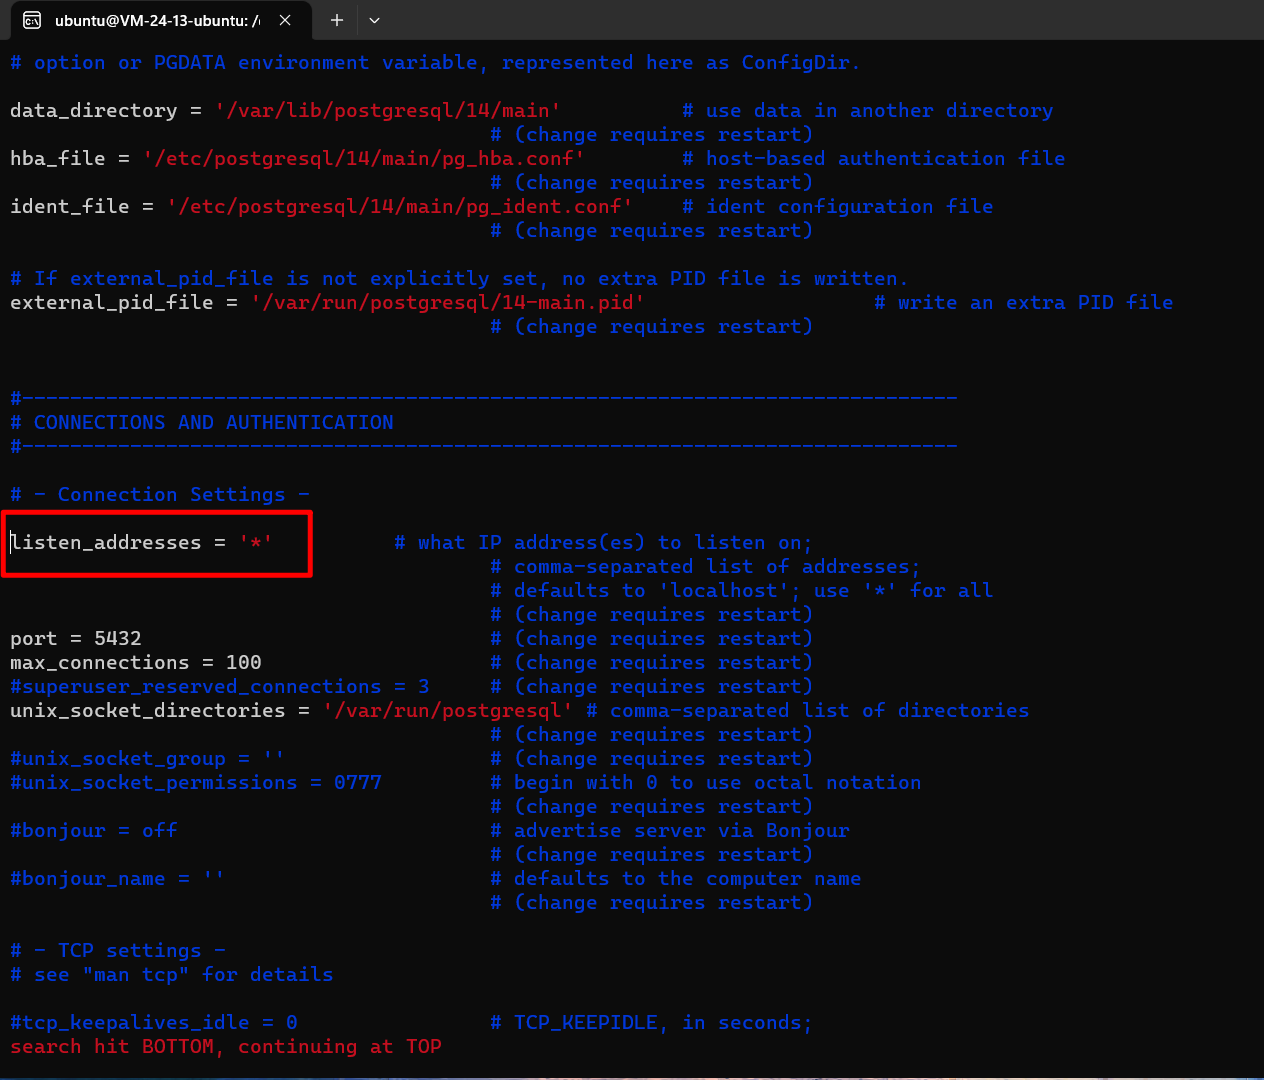
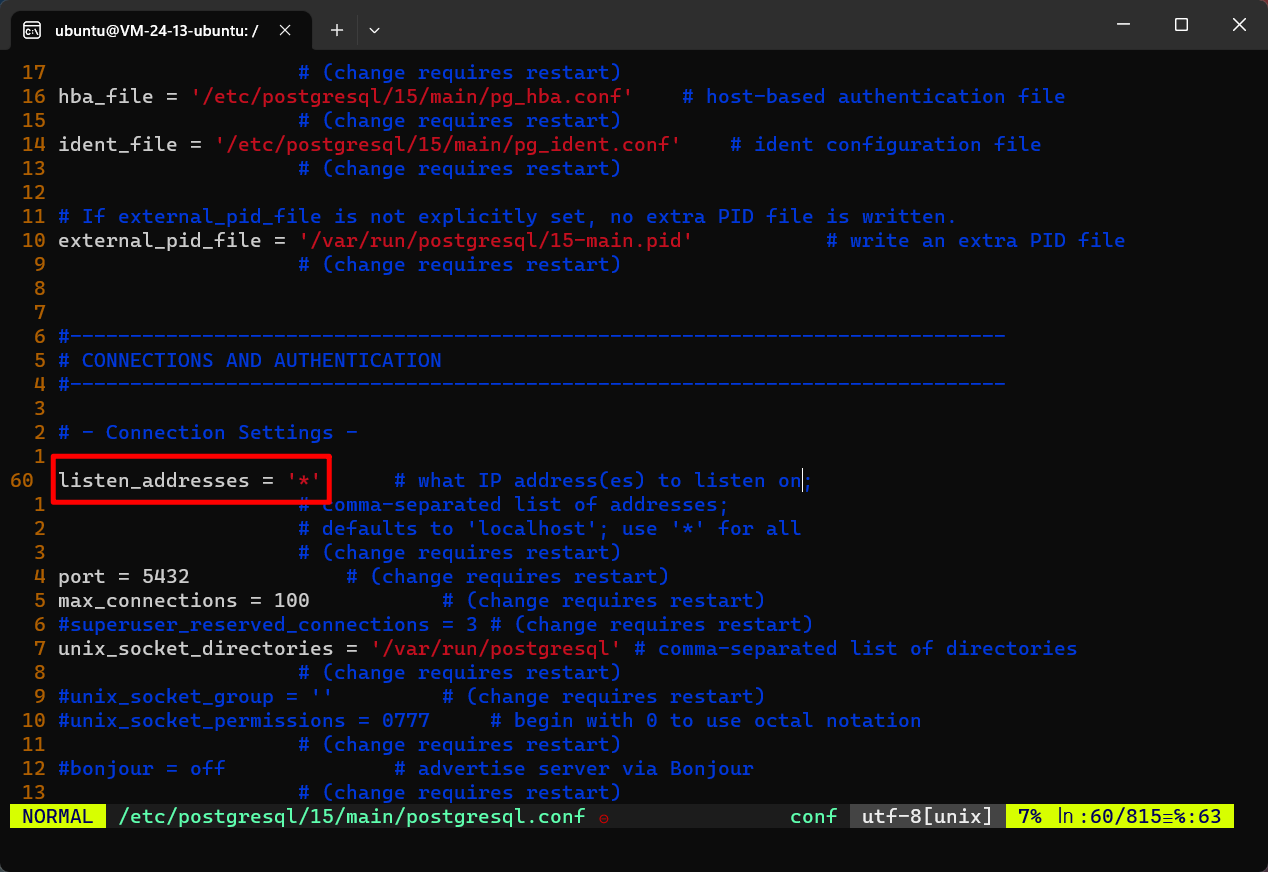
Site updated: 2023-06-19 14:01:45

diff --git a/2023/06/18/2023-数据库课设-环境搭建-pg数据库/index.html b/2023/06/18/2023-数据库课设-环境搭建-pg数据库/index.html
@@ -16,24 +16,25 @@
   <meta name="author" content="Yuan">
   <meta name="keywords" content="">
   
-    <meta name="description" content="这里用 postgresql ubuntu 默认版本安装在 Ubuntu22.04 这时版本 14 前置要求会 vim 的基本操作 vim教程 安装登录到服务器后在 shell 里操作  更新软件包版本的目录 1sudo apt update   更新软件包 1sudo apt upgrade    安装 postgresql  1sudo apt install postgresql-clien">
+    <meta name="description" content="这里用 postgresql ubuntu 默认版本安装在 Ubuntu22.04 这时版本 14 前置要求会 vim 的基本操作 vim教程 安装登录到服务器后在 shell 里操作 更新软件包版本的目录 1sudo apt update   更新软件包 1sudo apt upgrade    安装 postgresql  1sudo apt install postgresql-client">
 <meta property="og:type" content="article">
 <meta property="og:title" content="2023 数据库课设 环境搭建-pg数据库">
 <meta property="og:url" content="http://example.com/2023/06/18/2023-%E6%95%B0%E6%8D%AE%E5%BA%93%E8%AF%BE%E8%AE%BE-%E7%8E%AF%E5%A2%83%E6%90%AD%E5%BB%BA-pg%E6%95%B0%E6%8D%AE%E5%BA%93/index.html">
 <meta property="og:site_name" content="我的博客">
-<meta property="og:description" content="这里用 postgresql ubuntu 默认版本安装在 Ubuntu22.04 这时版本 14 前置要求会 vim 的基本操作 vim教程 安装登录到服务器后在 shell 里操作  更新软件包版本的目录 1sudo apt update   更新软件包 1sudo apt upgrade    安装 postgresql  1sudo apt install postgresql-clien">
+<meta property="og:description" content="这里用 postgresql ubuntu 默认版本安装在 Ubuntu22.04 这时版本 14 前置要求会 vim 的基本操作 vim教程 安装登录到服务器后在 shell 里操作 更新软件包版本的目录 1sudo apt update   更新软件包 1sudo apt upgrade    安装 postgresql  1sudo apt install postgresql-client">
 <meta property="og:locale" content="zh_CN">
 <meta property="og:image" content="http://example.com/2023/06/18/2023-%E6%95%B0%E6%8D%AE%E5%BA%93%E8%AF%BE%E8%AE%BE-%E7%8E%AF%E5%A2%83%E6%90%AD%E5%BB%BA-pg%E6%95%B0%E6%8D%AE%E5%BA%93/lianjie.png">
 <meta property="og:image" content="http://example.com/2023/06/18/2023-%E6%95%B0%E6%8D%AE%E5%BA%93%E8%AF%BE%E8%AE%BE-%E7%8E%AF%E5%A2%83%E6%90%AD%E5%BB%BA-pg%E6%95%B0%E6%8D%AE%E5%BA%93/update.png">
+<meta property="og:image" content="http://example.com/2023/06/18/2023-%E6%95%B0%E6%8D%AE%E5%BA%93%E8%AF%BE%E8%AE%BE-%E7%8E%AF%E5%A2%83%E6%90%AD%E5%BB%BA-pg%E6%95%B0%E6%8D%AE%E5%BA%93/fen.png">
 <meta property="og:image" content="http://example.com/2023/06/18/2023-%E6%95%B0%E6%8D%AE%E5%BA%93%E8%AF%BE%E8%AE%BE-%E7%8E%AF%E5%A2%83%E6%90%AD%E5%BB%BA-pg%E6%95%B0%E6%8D%AE%E5%BA%93/post.png">
 <meta property="og:image" content="http://example.com/2023/06/18/2023-%E6%95%B0%E6%8D%AE%E5%BA%93%E8%AF%BE%E8%AE%BE-%E7%8E%AF%E5%A2%83%E6%90%AD%E5%BB%BA-pg%E6%95%B0%E6%8D%AE%E5%BA%93/duan.png">
 <meta property="og:image" content="http://example.com/2023/06/18/2023-%E6%95%B0%E6%8D%AE%E5%BA%93%E8%AF%BE%E8%AE%BE-%E7%8E%AF%E5%A2%83%E6%90%AD%E5%BB%BA-pg%E6%95%B0%E6%8D%AE%E5%BA%93/cd.png">
 <meta property="og:image" content="http://example.com/2023/06/18/2023-%E6%95%B0%E6%8D%AE%E5%BA%93%E8%AF%BE%E8%AE%BE-%E7%8E%AF%E5%A2%83%E6%90%AD%E5%BB%BA-pg%E6%95%B0%E6%8D%AE%E5%BA%93/postgre.png">
-<meta property="og:image" content="http://example.com/2023/06/18/2023-%E6%95%B0%E6%8D%AE%E5%BA%93%E8%AF%BE%E8%AE%BE-%E7%8E%AF%E5%A2%83%E6%90%AD%E5%BB%BA-pg%E6%95%B0%E6%8D%AE%E5%BA%93/nei.png">
+<meta property="og:image" content="http://example.com/2023/06/18/2023-%E6%95%B0%E6%8D%AE%E5%BA%93%E8%AF%BE%E8%AE%BE-%E7%8E%AF%E5%A2%83%E6%90%AD%E5%BB%BA-pg%E6%95%B0%E6%8D%AE%E5%BA%93/allow.png">
 <meta property="og:image" content="http://example.com/2023/06/18/2023-%E6%95%B0%E6%8D%AE%E5%BA%93%E8%AF%BE%E8%AE%BE-%E7%8E%AF%E5%A2%83%E6%90%AD%E5%BB%BA-pg%E6%95%B0%E6%8D%AE%E5%BA%93/pomi.png">
 <meta property="og:image" content="http://example.com/2023/06/18/2023-%E6%95%B0%E6%8D%AE%E5%BA%93%E8%AF%BE%E8%AE%BE-%E7%8E%AF%E5%A2%83%E6%90%AD%E5%BB%BA-pg%E6%95%B0%E6%8D%AE%E5%BA%93/exti.png">
 <meta property="article:published_time" content="2023-06-18T09:38:54.000Z">
-<meta property="article:modified_time" content="2023-06-19T05:37:25.672Z">
+<meta property="article:modified_time" content="2023-06-19T06:01:30.257Z">
 <meta property="article:author" content="Yuan">
 <meta name="twitter:card" content="summary_large_image">
 <meta name="twitter:image" content="http://example.com/2023/06/18/2023-%E6%95%B0%E6%8D%AE%E5%BA%93%E8%AF%BE%E8%AE%BE-%E7%8E%AF%E5%A2%83%E6%90%AD%E5%BB%BA-pg%E6%95%B0%E6%8D%AE%E5%BA%93/lianjie.png">
@@ -228,7 +229,7 @@
       <span class="post-meta mr-2">
         <i class="iconfont icon-chart"></i>
         
-          1.1k 字
+          1.2k 字
         
       </span>
     
@@ -239,7 +240,7 @@
         
         
         
-          10 分钟
+          11 分钟
         
       </span>
     
@@ -285,8 +286,7 @@
                 <p>这里用 postgresql ubuntu 默认版本安装在 Ubuntu22.04 这时版本 14</p>
 <h2 id="前置要求"><a href="#前置要求" class="headerlink" title="前置要求"></a>前置要求</h2><p>会 vim 的基本操作</p>
 <p><a target="_blank" rel="noopener" href="https://imageslr.com/2021/vim.html">vim教程</a></p>
-<h2 id="安装"><a href="#安装" class="headerlink" title="安装"></a>安装</h2><p>登录到服务器后在 shell 里操作</p>
-<p><img src="/2023/06/18/2023-%E6%95%B0%E6%8D%AE%E5%BA%93%E8%AF%BE%E8%AE%BE-%E7%8E%AF%E5%A2%83%E6%90%AD%E5%BB%BA-pg%E6%95%B0%E6%8D%AE%E5%BA%93/lianjie.png" srcset="/img/loading.gif" lazyload></p>
+<h2 id="安装"><a href="#安装" class="headerlink" title="安装"></a>安装</h2><h3 id="登录到服务器后在-shell-里操作"><a href="#登录到服务器后在-shell-里操作" class="headerlink" title="登录到服务器后在 shell 里操作"></a>登录到服务器后在 shell 里操作</h3><p><img src="/2023/06/18/2023-%E6%95%B0%E6%8D%AE%E5%BA%93%E8%AF%BE%E8%AE%BE-%E7%8E%AF%E5%A2%83%E6%90%AD%E5%BB%BA-pg%E6%95%B0%E6%8D%AE%E5%BA%93/lianjie.png" srcset="/img/loading.gif" lazyload></p>
 <p>更新软件包版本的目录</p>
 <figure class="highlight shell"><table><tr><td class="gutter"><pre><span class="line">1</span><br></pre></td><td class="code"><pre><code class="hljs shell">sudo apt update<br></code></pre></td></tr></table></figure>
 
@@ -299,15 +299,13 @@
 <p>安装 postgresql </p>
 <figure class="highlight shell"><table><tr><td class="gutter"><pre><span class="line">1</span><br></pre></td><td class="code"><pre><code class="hljs shell">sudo apt install postgresql-client postgresql -y<br></code></pre></td></tr></table></figure>
 
-
-
+<p>安装时出现 粉色 屏幕时 按 Esc 退出</p>
+<p><img src="/2023/06/18/2023-%E6%95%B0%E6%8D%AE%E5%BA%93%E8%AF%BE%E8%AE%BE-%E7%8E%AF%E5%A2%83%E6%90%AD%E5%BB%BA-pg%E6%95%B0%E6%8D%AE%E5%BA%93/fen.png" srcset="/img/loading.gif" lazyload></p>
 <p>安装完毕后自动启动 postgresql , 默认端口 5432, 无法远程连接数据库</p>
-<p>查看运行状况</p>
-<figure class="highlight shell"><table><tr><td class="gutter"><pre><span class="line">1</span><br></pre></td><td class="code"><pre><code class="hljs shell">sudo systemctl status postgresql<br></code></pre></td></tr></table></figure>
+<h3 id="查看运行状况"><a href="#查看运行状况" class="headerlink" title="查看运行状况"></a>查看运行状况</h3><figure class="highlight shell"><table><tr><td class="gutter"><pre><span class="line">1</span><br></pre></td><td class="code"><pre><code class="hljs shell">sudo systemctl status postgresql<br></code></pre></td></tr></table></figure>
 
 <p><img src="/2023/06/18/2023-%E6%95%B0%E6%8D%AE%E5%BA%93%E8%AF%BE%E8%AE%BE-%E7%8E%AF%E5%A2%83%E6%90%AD%E5%BB%BA-pg%E6%95%B0%E6%8D%AE%E5%BA%93/post.png" srcset="/img/loading.gif" lazyload></p>
-<p>查看 OS 端口情况 ，我的是配置好远程连接的情况，只要有一个 5432 端口就行</p>
-<figure class="highlight shell"><table><tr><td class="gutter"><pre><span class="line">1</span><br><span class="line">2</span><br></pre></td><td class="code"><pre><code class="hljs shell">sudo systemctl restart postgresql<br>ss -ntl <br></code></pre></td></tr></table></figure>
+<h3 id="查看-OS-端口情况-，我的是配置好远程连接的情况，只要有一个-5432-端口就行"><a href="#查看-OS-端口情况-，我的是配置好远程连接的情况，只要有一个-5432-端口就行" class="headerlink" title="查看 OS 端口情况 ，我的是配置好远程连接的情况，只要有一个 5432 端口就行"></a>查看 OS 端口情况 ，我的是配置好远程连接的情况，只要有一个 5432 端口就行</h3><figure class="highlight shell"><table><tr><td class="gutter"><pre><span class="line">1</span><br><span class="line">2</span><br></pre></td><td class="code"><pre><code class="hljs shell">sudo systemctl restart postgresql<br>ss -ntl <br></code></pre></td></tr></table></figure>
 
 <p><img src="/2023/06/18/2023-%E6%95%B0%E6%8D%AE%E5%BA%93%E8%AF%BE%E8%AE%BE-%E7%8E%AF%E5%A2%83%E6%90%AD%E5%BB%BA-pg%E6%95%B0%E6%8D%AE%E5%BA%93/duan.png" srcset="/img/loading.gif" lazyload></p>
 <h2 id="配置"><a href="#配置" class="headerlink" title="配置"></a>配置</h2><h3 id="更改目录到"><a href="#更改目录到" class="headerlink" title="更改目录到"></a>更改目录到</h3><figure class="highlight shell"><table><tr><td class="gutter"><pre><span class="line">1</span><br></pre></td><td class="code"><pre><code class="hljs shell">cd /etc/postgresql/14/main<br></code></pre></td></tr></table></figure>
@@ -316,19 +314,17 @@
 <h3 id="修改-postgresql-conf-文件内容-使其可以远程连接"><a href="#修改-postgresql-conf-文件内容-使其可以远程连接" class="headerlink" title="修改 postgresql.conf 文件内容, 使其可以远程连接"></a>修改 postgresql.conf 文件内容, 使其可以远程连接</h3><p>以 root 用户身份用 vim 编辑器打开文件</p>
 <figure class="highlight shell"><table><tr><td class="gutter"><pre><span class="line">1</span><br></pre></td><td class="code"><pre><code class="hljs shell">sudo vim postgresql.conf<br></code></pre></td></tr></table></figure>
 
-
-
+<p>在 vim 里找到 listen_addresses 那行第 60 行左右</p>
+<p>删除 # 将 hostlocal 改为 *</p>
+<p>vim 里按  <code>i</code> 进入修改模式，修改后按 <code>Esc</code> 退出</p>
 <p><img src="/2023/06/18/2023-%E6%95%B0%E6%8D%AE%E5%BA%93%E8%AF%BE%E8%AE%BE-%E7%8E%AF%E5%A2%83%E6%90%AD%E5%BB%BA-pg%E6%95%B0%E6%8D%AE%E5%BA%93/postgre.png" srcset="/img/loading.gif" lazyload></p>
-<p>在 vim 中保存退出</p>
-<figure class="highlight clojure"><table><tr><td class="gutter"><pre><span class="line">1</span><br></pre></td><td class="code"><pre><code class="hljs clojure"><span class="hljs-symbol">:wq</span><br></code></pre></td></tr></table></figure>
+<p>在 vim 中按 <code>:wq</code>保存退出</p>
+<h3 id="修改-pg-hba-conf-内容"><a href="#修改-pg-hba-conf-内容" class="headerlink" title="修改 pg_hba.conf 内容"></a>修改 pg_hba.conf 内容</h3><p>由于是系统目录所以要 root 身份 sudo 操作</p>
+<figure class="highlight shell"><table><tr><td class="gutter"><pre><span class="line">1</span><br></pre></td><td class="code"><pre><code class="hljs shell">sudo vim pg_hba.conf<br></code></pre></td></tr></table></figure>
 
 
 
-<h3 id="修改-pg-hba-conf-内容"><a href="#修改-pg-hba-conf-内容" class="headerlink" title="修改 pg_hba.conf 内容"></a>修改 pg_hba.conf 内容</h3><figure class="highlight shell"><table><tr><td class="gutter"><pre><span class="line">1</span><br></pre></td><td class="code"><pre><code class="hljs shell">sudo vim pg_hba.conf<br></code></pre></td></tr></table></figure>
-
-
-
-<p><img src="/2023/06/18/2023-%E6%95%B0%E6%8D%AE%E5%BA%93%E8%AF%BE%E8%AE%BE-%E7%8E%AF%E5%A2%83%E6%90%AD%E5%BB%BA-pg%E6%95%B0%E6%8D%AE%E5%BA%93/nei.png" srcset="/img/loading.gif" lazyload></p>
+<p><img src="/2023/06/18/2023-%E6%95%B0%E6%8D%AE%E5%BA%93%E8%AF%BE%E8%AE%BE-%E7%8E%AF%E5%A2%83%E6%90%AD%E5%BB%BA-pg%E6%95%B0%E6%8D%AE%E5%BA%93/allow.png" srcset="/img/loading.gif" lazyload></p>
 <h3 id="修改-postgresql-默认用户的密码"><a href="#修改-postgresql-默认用户的密码" class="headerlink" title="修改 postgresql 默认用户的密码"></a>修改 postgresql 默认用户的密码</h3><p>目录回到 home</p>
 <figure class="highlight bash"><table><tr><td class="gutter"><pre><span class="line">1</span><br></pre></td><td class="code"><pre><code class="hljs bash"><span class="hljs-built_in">cd</span> ~<br></code></pre></td></tr></table></figure>
 
@@ -352,7 +348,7 @@
 <li>psql 运行这个软件，在里面交互式操作</li>
 <li>psql 外部直接用命令行操作</li>
 </ul>
-<h2 id="软件的开关和状态"><a href="#软件的开关和状态" class="headerlink" title="软件的开关和状态"></a>软件的开关和状态</h2><p>运行软件  </p>
+<h3 id="新建用户"><a href="#新建用户" class="headerlink" title="新建用户"></a>新建用户</h3><h2 id="软件的开关和状态"><a href="#软件的开关和状态" class="headerlink" title="软件的开关和状态"></a>软件的开关和状态</h2><p>运行软件  </p>
 <figure class="highlight shell"><table><tr><td class="gutter"><pre><span class="line">1</span><br></pre></td><td class="code"><pre><code class="hljs shell">sudo systemctl start postgresql<br></code></pre></td></tr></table></figure>
 
 <p>关闭软件  </p>

diff --git a/index.html b/index.html
@@ -429,7 +429,7 @@
       
       <a class="index-excerpt index-excerpt__noimg" href="/2023/06/18/2023-%E6%95%B0%E6%8D%AE%E5%BA%93%E8%AF%BE%E8%AE%BE-%E7%8E%AF%E5%A2%83%E6%90%AD%E5%BB%BA-pg%E6%95%B0%E6%8D%AE%E5%BA%93/" target="_self">
         <div>
-          这里用 postgresql ubuntu 默认版本安装在 Ubuntu22.04 这时版本 14 前置要求会 vim 的基本操作 vim教程 安装登录到服务器后在 shell 里操作  更新软件包版本的目录 1sudo apt update   更新软件包 1sudo apt upgrade    安装 postgresql  1sudo apt install postgresql-clien
+          这里用 postgresql ubuntu 默认版本安装在 Ubuntu22.04 这时版本 14 前置要求会 vim 的基本操作 vim教程 安装登录到服务器后在 shell 里操作 更新软件包版本的目录 1sudo apt update   更新软件包 1sudo apt upgrade    安装 postgresql  1sudo apt install postgresql-client
         </div>
       </a>
 
